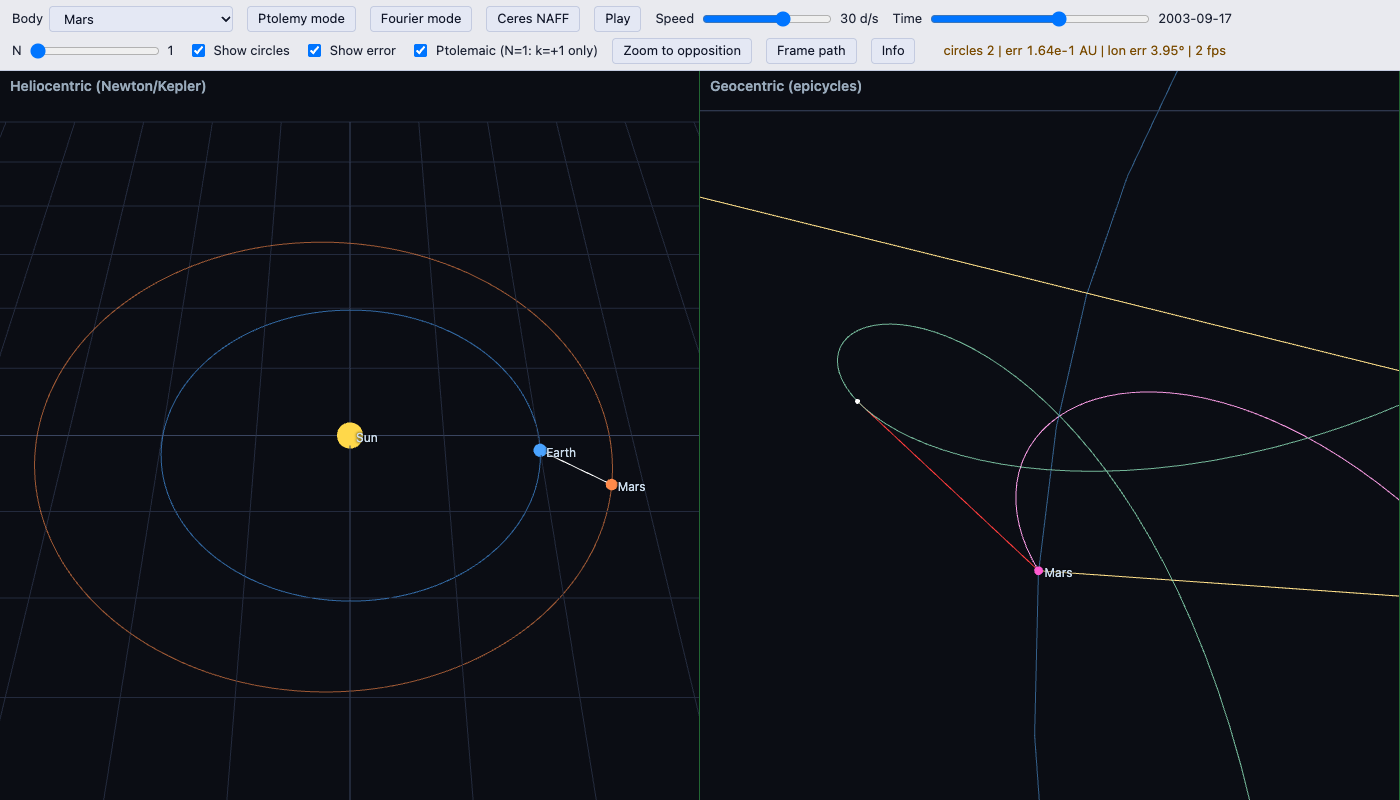
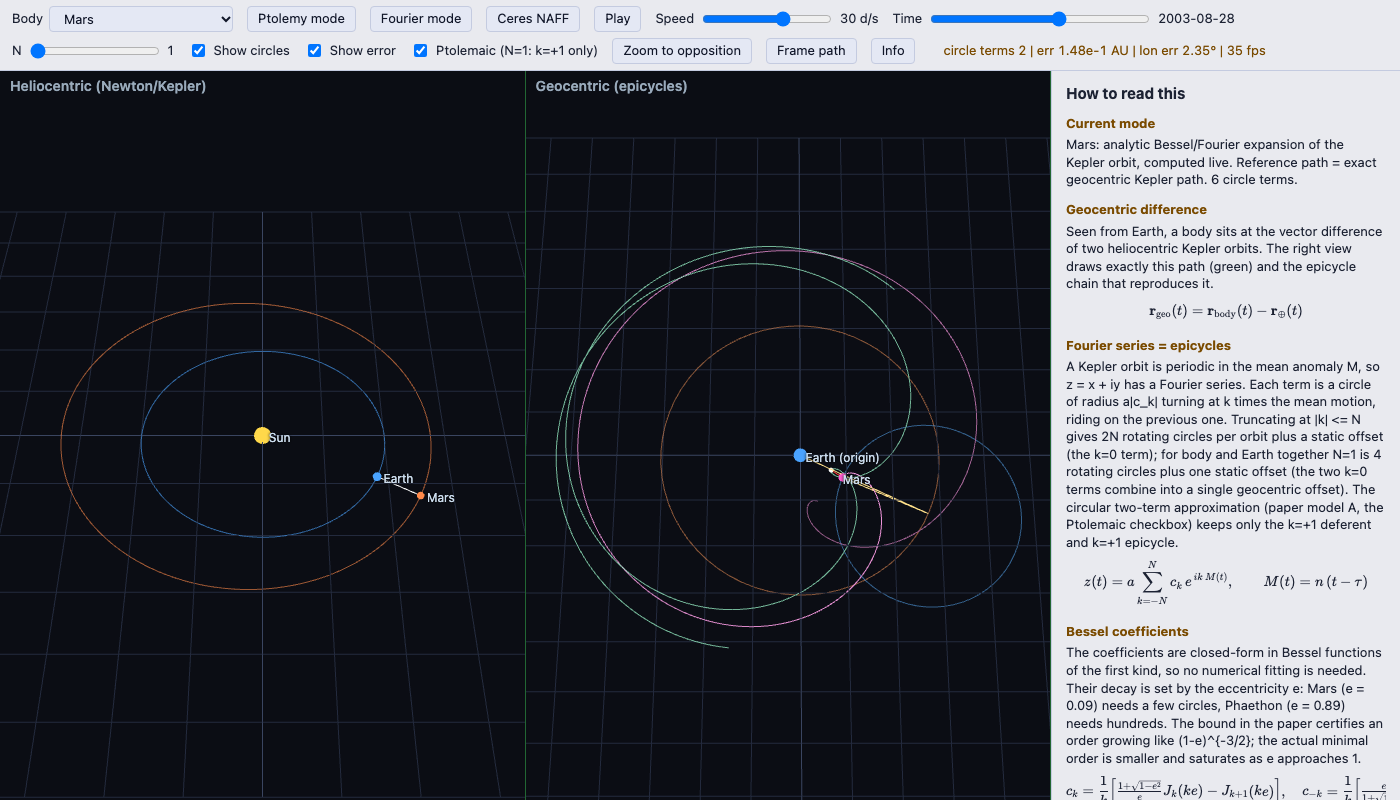
epicycles-71q: SPA polish (opposition fallback, heliocentric/geocentric framing, Ptolemy screenshot, info-panel overflow, wording), README/CLAUDE/AGENTS doc fixes
Claude-Session: https://claude.ai/code/session_01Kdqk6BiVximtW9dphTFUua

diff --git a/web/src/main.ts b/web/src/main.ts
@@ -83,7 +83,7 @@ async function main(): Promise<void> {
   function updateWarn(): void {
     const c = circleCountFor(body, state.N);
     warn.textContent = body !== "naff" && state.N > BIG_N_WARN
-      ? `Warning: N=${state.N} gives ${c} circle terms (4N rotating + 2 static offsets); rendering may be slow.` : "";
+      ? `Warning: N=${state.N} gives ${c} circle terms (4N rotating + 2 static, one combined offset); rendering may be slow.` : "";
   }
 
   async function setBody(id: BodyId): Promise<void> {
@@ -115,7 +115,7 @@ async function main(): Promise<void> {
     const rows = naff && id === "naff" ? studyRows(naff.study) : [];
     const note = id === "naff"
       ? "Perturbed Ceres: N-body integration (Sun, Earth, Jupiter, Saturn) fitted by NAFF into 401 circles; the slider keeps the top K by radius (2K+1 circle terms including the static offset). Reference path = full NAFF reconstruction (all 401 circles), not the N-body truth; see paper for N-body truth error and the table below. Left view shows the unperturbed osculating Kepler ellipse for context."
-      : `${BODY_LABEL[id]}: analytic Bessel/Fourier expansion of the Kepler orbit, computed live. Reference path = exact geocentric Kepler path. Circles: ${circleCountFor(id, state.N)}.`;
+      : `${BODY_LABEL[id]}: analytic Bessel/Fourier expansion of the Kepler orbit, computed live. Reference path = exact geocentric Kepler path. ${circleCountFor(id, state.N)} circle terms.`;
     const win = id === "naff"
       ? `Study window ${jdToDate(NAFF_WINDOW[0])} to ${jdToDate(NAFF_WINDOW[1])} (clock limited to it); interior (middle 80%) ${jdToDate(NAFF_INTERIOR[0])} to ${jdToDate(NAFF_INTERIOR[1])}.` : "";
     info.setMode(note, rows, win);
@@ -224,9 +224,11 @@ async function main(): Promise<void> {
     helio.update(t, rl.width, rl.height);
     geo.update(t, truth, tip, rr.width, rr.height);
     if (pendingFrame !== null) {
-      if (pendingFrame === "opp") { if (!geo.zoomToOpposition(t)) flash("No retrograde loop within +-800 days; framing the whole path."); }
-      else geo.frameReference(t);
-      lastFrame = pendingFrame; userMoved = false;
+      let framed: "ref" | "opp" = pendingFrame;
+      if (pendingFrame === "opp") {
+        if (!geo.zoomToOpposition(t)) { flash("No retrograde loop within +-800 days; framing the whole path."); framed = "ref"; }
+      } else geo.frameReference(t);
+      lastFrame = framed; userMoved = false;
       pendingFrame = null;
     }
     computeError(tip, truth, err);

diff --git a/web/src/view/heliocentric.ts b/web/src/view/heliocentric.ts
@@ -2,6 +2,7 @@ import * as THREE from "three";
 import { OrbitControls } from "three/examples/jsm/controls/OrbitControls.js";
 import { Elements, position, meanMotion } from "../math/kepler";
 import { Label, makeGrid } from "./labels";
+import { fitDistance } from "../sim/geometry";
 
 function orbitLine(el: Elements, color: number): THREE.LineLoop {
   const n = 256, P = (2 * Math.PI) / meanMotion(el);
@@ -42,6 +43,7 @@ export class HelioView {
     this.camera.position.set(0, -3.6, 4.2);
     this.controls = new OrbitControls(this.camera, dom);
     this.controls.enableDamping = true;
+    this.controls.addEventListener("start", () => { this.userMoved = true; });
     const lSun = new Label(host, "Sun");
     this.lEarth = new Label(host, "Earth"); this.lBody = new Label(host, bodyEl.name ?? "Body");
     this.labels = [lSun, this.lEarth, this.lBody];
@@ -57,14 +59,31 @@ export class HelioView {
     this.bodyOrbit = orbitLine(bodyEl, 0xff8a4a);
     this.scene.add(this.bodyOrbit);
     this.lBody.el.textContent = label;
-    const aph = bodyEl.a * (1 + bodyEl.e);
-    const dist = Math.max(3, 4.0 * aph);
+    this.aph = bodyEl.a * (1 + bodyEl.e);
+    this.fit();
+  }
+
+  private aph = 1.7;
+  private fitAspect = 0;
+  private userMoved = false;
+
+  /** Frame the outermost orbit (aphelion circle) with an aspect-aware margin. */
+  private fit(): void {
+    const r = Math.max(1.1, this.aph);
+    const dist = fitDistance(r, r, this.camera.fov, this.fitAspect > 0 ? this.fitAspect : 1);
     this.controls.target.set(0, 0, 0);
     this.camera.position.set(0, -0.65 * dist, 0.76 * dist);
     this.controls.update();
+    this.userMoved = false;
   }
 
   update(t: number, w: number, h: number): void {
+    const asp = h > 0 ? w / h : 1;
+    if (Math.abs(asp - this.fitAspect) > 1e-3) {
+      this.fitAspect = asp;
+      this.camera.aspect = asp; this.camera.updateProjectionMatrix();
+      if (!this.userMoved) this.fit();
+    }
     const pe = position(this.earthEl, t), pb = position(this.bodyEl, t);
     this.earth.position.set(pe[0], pe[1], pe[2]);
     this.body.position.set(pb[0], pb[1], pb[2]);

diff --git a/web/src/ui/info.ts b/web/src/ui/info.ts
@@ -36,7 +36,7 @@ export function buildInfo(root: HTMLElement): InfoPanel {
     "Seen from Earth, a body sits at the vector difference of two heliocentric Kepler orbits. The right view draws exactly this path (green) and the epicycle chain that reproduces it.",
     FORMULAS.geo);
   section(root, "Fourier series = epicycles",
-    "A Kepler orbit is periodic in the mean anomaly M, so z = x + iy has a Fourier series. Each term is a circle of radius a|c_k| turning at k times the mean motion, riding on the previous one. Truncating at |k| <= N gives 2N rotating circles per orbit plus a static offset (the k=0 term); for body and Earth together N=1 is 4 rotating circles plus an offset. The circular two-term approximation (paper model A, the Ptolemaic checkbox) keeps only the k=+1 deferent and k=+1 epicycle.",
+    "A Kepler orbit is periodic in the mean anomaly M, so z = x + iy has a Fourier series. Each term is a circle of radius a|c_k| turning at k times the mean motion, riding on the previous one. Truncating at |k| <= N gives 2N rotating circles per orbit plus a static offset (the k=0 term); for body and Earth together N=1 is 4 rotating circles plus one static offset (the two k=0 terms combine into a single geocentric offset). The circular two-term approximation (paper model A, the Ptolemaic checkbox) keeps only the k=+1 deferent and k=+1 epicycle.",
     FORMULAS.fourier);
   section(root, "Bessel coefficients",
     "The coefficients are closed-form in Bessel functions of the first kind, so no numerical fitting is needed. Their decay is set by the eccentricity e: Mars (e = 0.09) needs a few circles, Phaethon (e = 0.89) needs hundreds. The bound in the paper certifies an order growing like (1-e)^{-3/2}; the actual minimal order is smaller and saturates as e approaches 1.",

diff --git a/web/index.html b/web/index.html
@@ -24,10 +24,11 @@
       .view{position:relative;min-width:0;min-height:0;pointer-events:auto;overflow:hidden;border-right:1px solid #263}
       .view h2{position:absolute;margin:6px 10px;font-size:14px;font-weight:600;color:#9ab;pointer-events:none}
       .lbl{position:absolute;left:0;top:0;pointer-events:none;color:#cde;font-size:12px;text-shadow:0 0 3px #000}
-      #info{pointer-events:auto;width:320px;flex:none;overflow-y:auto;padding:8px 14px;background:var(--panelbg);color:var(--fg);border-left:1px solid var(--line)}
+      #info{overflow-x:hidden;pointer-events:auto;width:320px;flex:none;overflow-y:auto;padding:8px 14px;background:var(--panelbg);color:var(--fg);border-left:1px solid var(--line)}
       #info.hidden{display:none}
       #info h2{font-size:15px;margin:4px 0}#info h3{font-size:13px;margin:12px 0 2px;color:var(--accent)}#info p{margin:4px 0}
-      #info .formula{overflow-x:auto;overflow-y:hidden;font-size:0.92em}
+      #info .formula{overflow-x:auto;overflow-y:hidden;font-size:0.92em;max-width:100%}
+      #info .formula .katex-display{margin:0.4em 0;overflow-x:auto;overflow-y:hidden;max-width:100%}
       #info table{border-collapse:collapse;width:100%;font-size:11.5px;font-variant-numeric:tabular-nums}
       #info caption{text-align:left;color:var(--muted);padding:2px 0}
       #info th,#info td{border-bottom:1px solid var(--line);padding:2px 4px;text-align:right}#info th:first-child,#info td:first-child{text-align:left}

diff --git a/web/src/view/geocentric.ts b/web/src/view/geocentric.ts
@@ -203,7 +203,20 @@ export class GeoView {
       this.refFn(t - REF_HALF + (2 * REF_HALF * i) / (REF_PTS - 1), o);
       for (let k = 0; k < 3; k++) { min[k] = Math.min(min[k]!, o[k]!); max[k] = Math.max(max[k]!, o[k]!); }
     }
+    this.includeCircles(t, min, max);
     this.frameBox(min, max);
+  }
+
+  /** Grow a framing box so the epicycle circles drawn at time t (centre +- radius, in-plane) stay in view. */
+  private includeCircles(t: number, min: number[], max: number[]): void {
+    const arms = new Float64Array(3 * (this.chain.length + 1));
+    chainArmsInto(this.chain, t, arms);
+    for (let j = 0; j < this.chain.length; j++) {
+      const r = this.chain[j]!.radius;
+      for (let k = 0; k < 2; k++) {
+        min[k] = Math.min(min[k]!, arms[3 * j + k]! - r); max[k] = Math.max(max[k]!, arms[3 * j + k]! + r);
+      }
+    }
   }
 
   /**

diff --git a/README.md b/README.md
@@ -41,7 +41,7 @@ make -C paper clean
 npm --prefix web ci                              # install web deps
 npm --prefix web run dev                         # dev server
 npm --prefix web run build                       # typecheck + production build
-npm --prefix web run build:single              # single offline web/dist-single/index.html (opens from file://)
+npm --prefix web run build:single                # single offline web/dist-single/index.html (opens from file://)
 npm --prefix web test                            # vitest (incl. golden tests)
 npm --prefix web run preview                     # serve the production build
 ```
@@ -59,8 +59,8 @@ npm --prefix web run preview                     # serve the production build
 | `zoom=opp` | zoom to opposition |
 | `circles=0` | hide epicycle circles |
 | `info=0` | hide the explanatory panel |
-| `ptolemaic=1` | use the circular two-term (Ptolemaic) approximation |
-| `fourier=1` | Fourier-series view |
+| `ptolemaic=1` | circular two-term (Ptolemaic) approximation; takes effect only at N=1 (for N>1 the full chain is drawn) |
+| `fourier=1` | start at N=1 and animate N from 1 to 20 over 8 s, then hold at 20 (any manual N/body change stops it) |
 | `error=1` | show error versus the reference |
 
 Example: `http://localhost:5173/?preset=ptolemy&paused=1`

diff --git a/AGENTS.md b/AGENTS.md
@@ -109,13 +109,13 @@ uv sync                                          # Python deps (Python >= 3.11)
 uv run pytest -q                                 # Python tests
 uv run python experiments/perturbed_ceres.py     # ~3 min; regenerates experiments/out
 uv run python experiments/tables.py              # seconds; paper Tables I and IV -> experiments/out
-uv run python experiments/make_figures.py       # figures/ + web/public/data (deterministic; no diff expected)
+uv run python experiments/make_figures.py        # figures/ + web/public/data (deterministic; no diff expected)
 uv run python experiments/export_golden.py       # golden vectors for the TS port
 make -C paper                                    # build paper/main.pdf (pdflatex+bibtex, revtex4-2); `make -C paper clean`
 npm --prefix web ci                              # Node >= 22.12 (web/.nvmrc: 24)
 npm --prefix web test                            # vitest
 npm --prefix web run build                       # tsc --noEmit && vite build
-npm --prefix web run build:single              # single offline web/dist-single/index.html (opens from file://)
+npm --prefix web run build:single                # single offline web/dist-single/index.html (opens from file://)
 npm --prefix web run dev                         # dev server (also: preview)
 ```
 

diff --git a/CLAUDE.md b/CLAUDE.md
@@ -65,13 +65,13 @@ uv sync                                          # Python deps (Python >= 3.11)
 uv run pytest -q                                 # Python tests
 uv run python experiments/perturbed_ceres.py     # ~3 min; regenerates experiments/out
 uv run python experiments/tables.py              # seconds; paper Tables I and IV -> experiments/out
-uv run python experiments/make_figures.py       # figures/ + web/public/data (deterministic; no diff expected)
+uv run python experiments/make_figures.py        # figures/ + web/public/data (deterministic; no diff expected)
 uv run python experiments/export_golden.py       # golden vectors for the TS port
 make -C paper                                    # build paper/main.pdf (pdflatex+bibtex, revtex4-2); `make -C paper clean`
 npm --prefix web ci                              # Node >= 22.12 (web/.nvmrc: 24)
 npm --prefix web test                            # vitest
 npm --prefix web run build                       # tsc --noEmit && vite build
-npm --prefix web run build:single              # single offline web/dist-single/index.html (opens from file://)
+npm --prefix web run build:single                # single offline web/dist-single/index.html (opens from file://)
 npm --prefix web run dev                         # dev server (also: preview)
 ```
 
